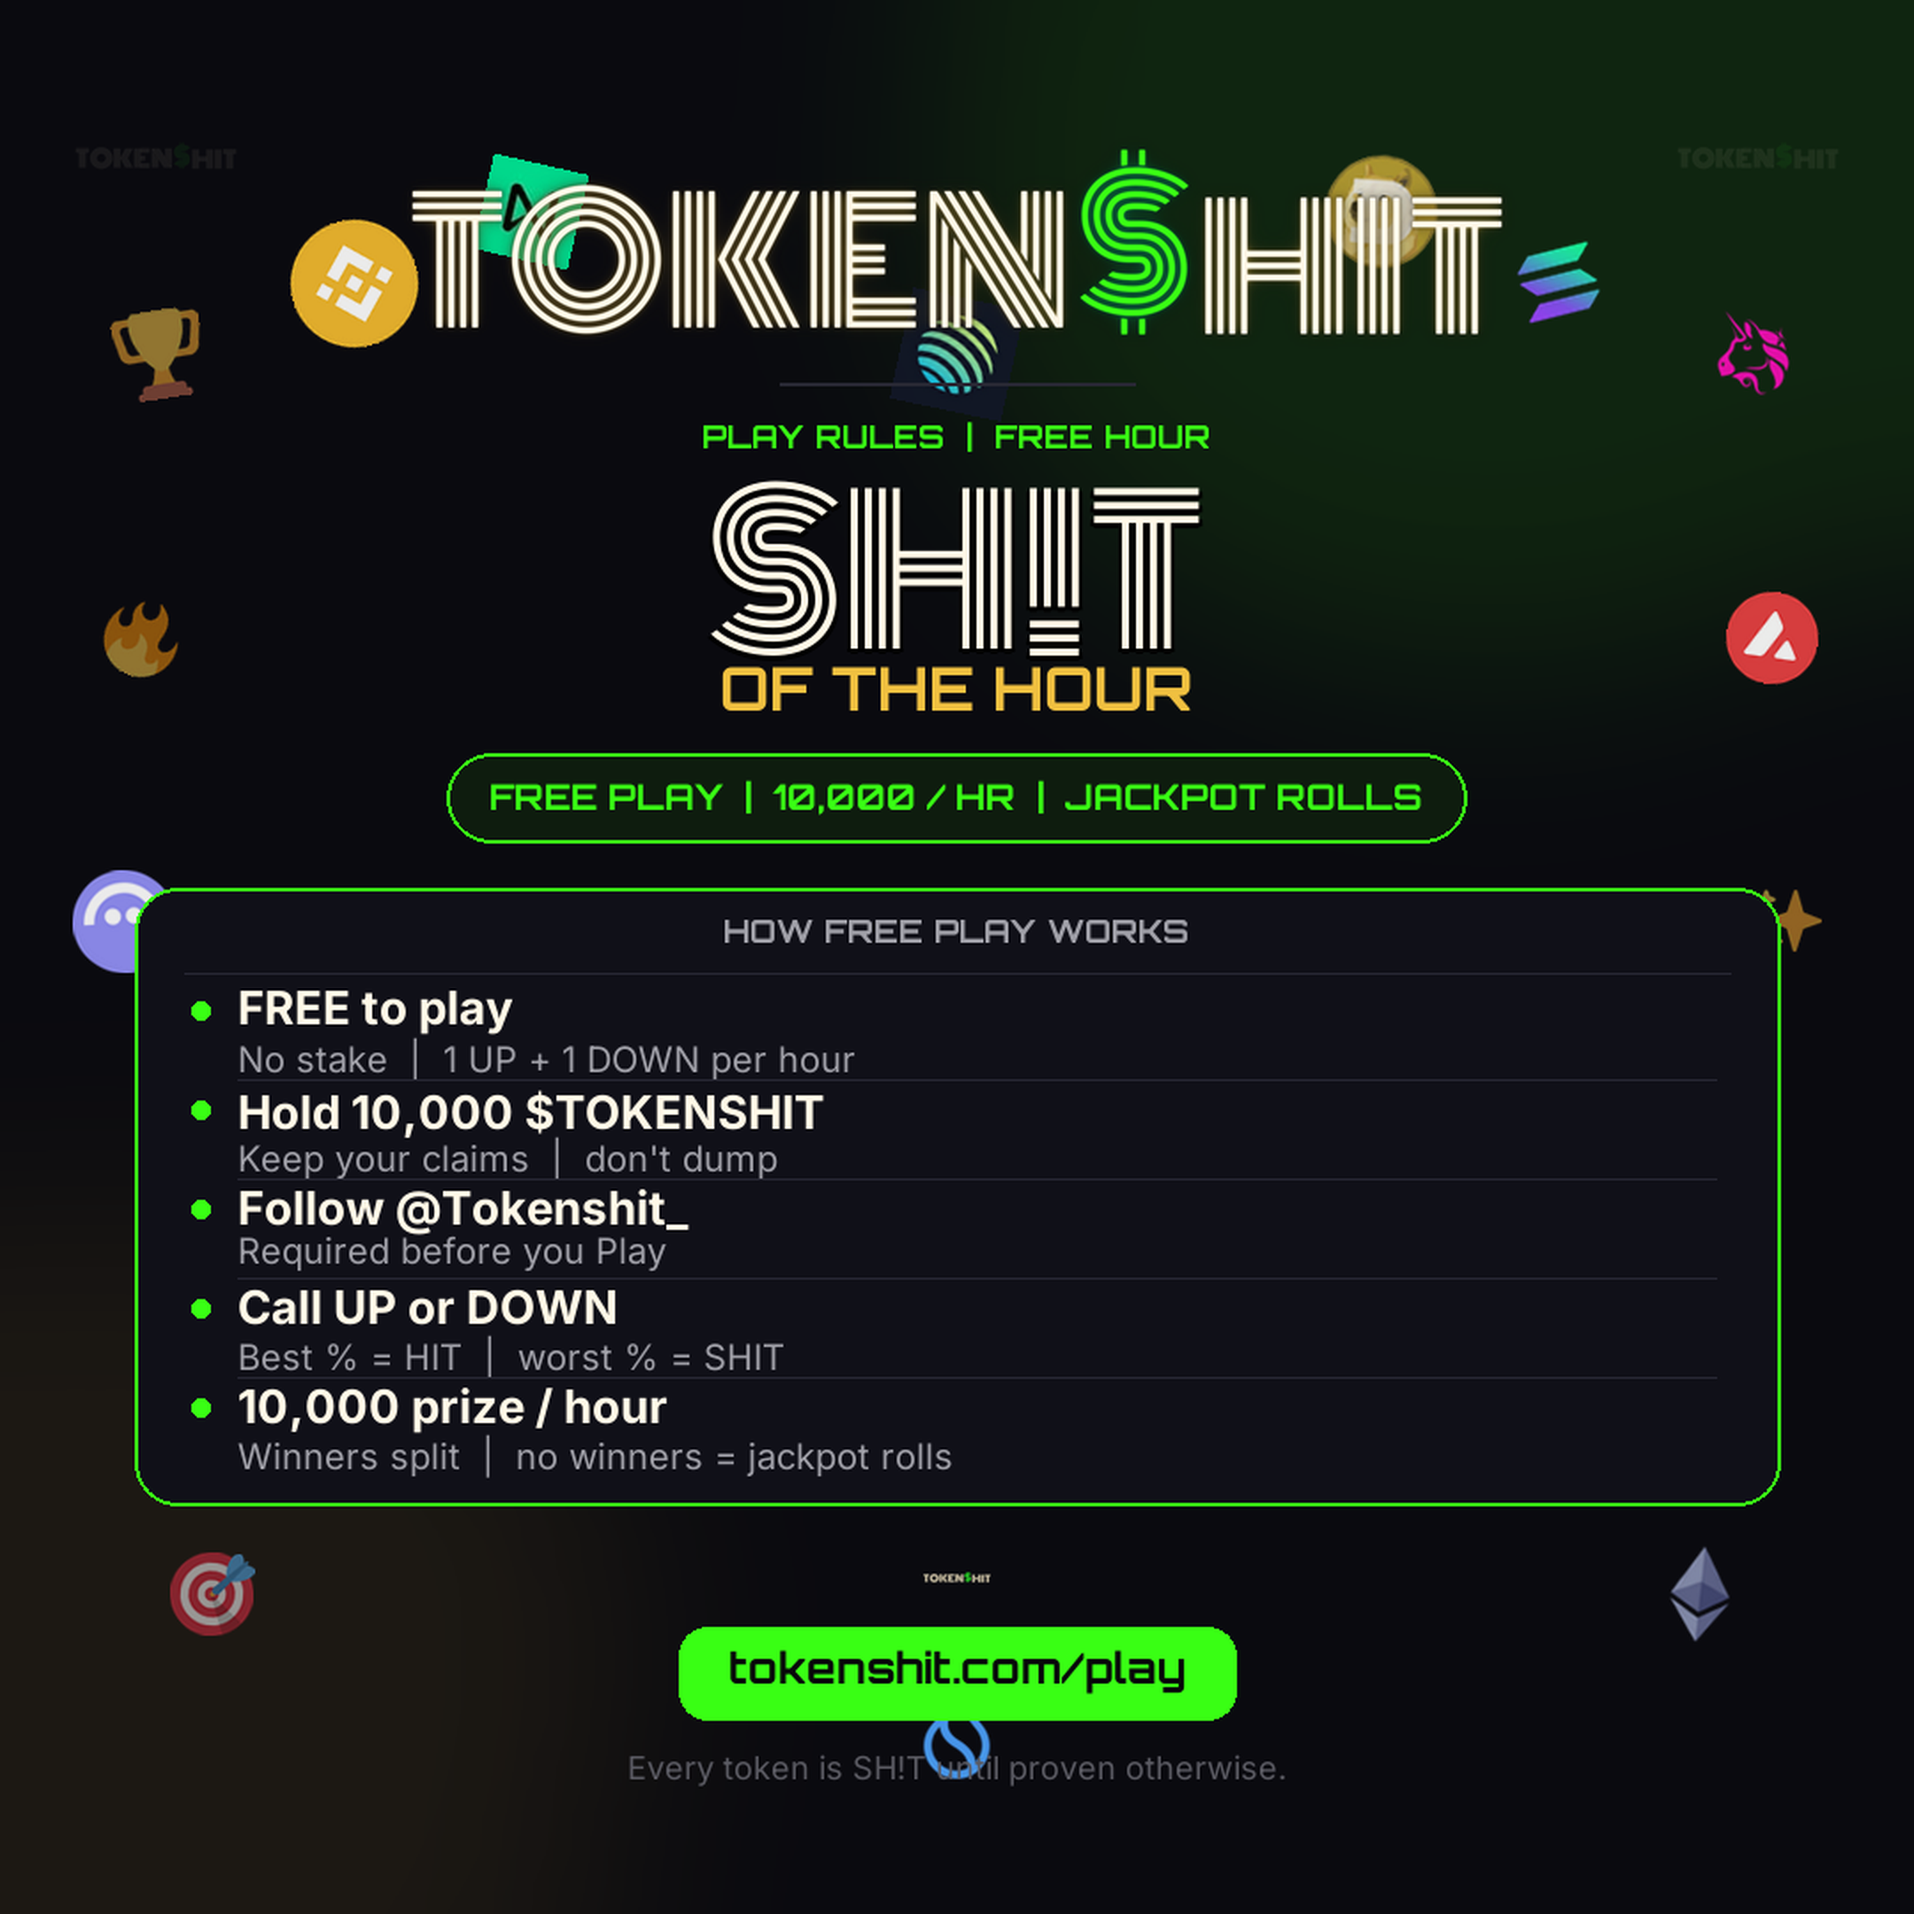
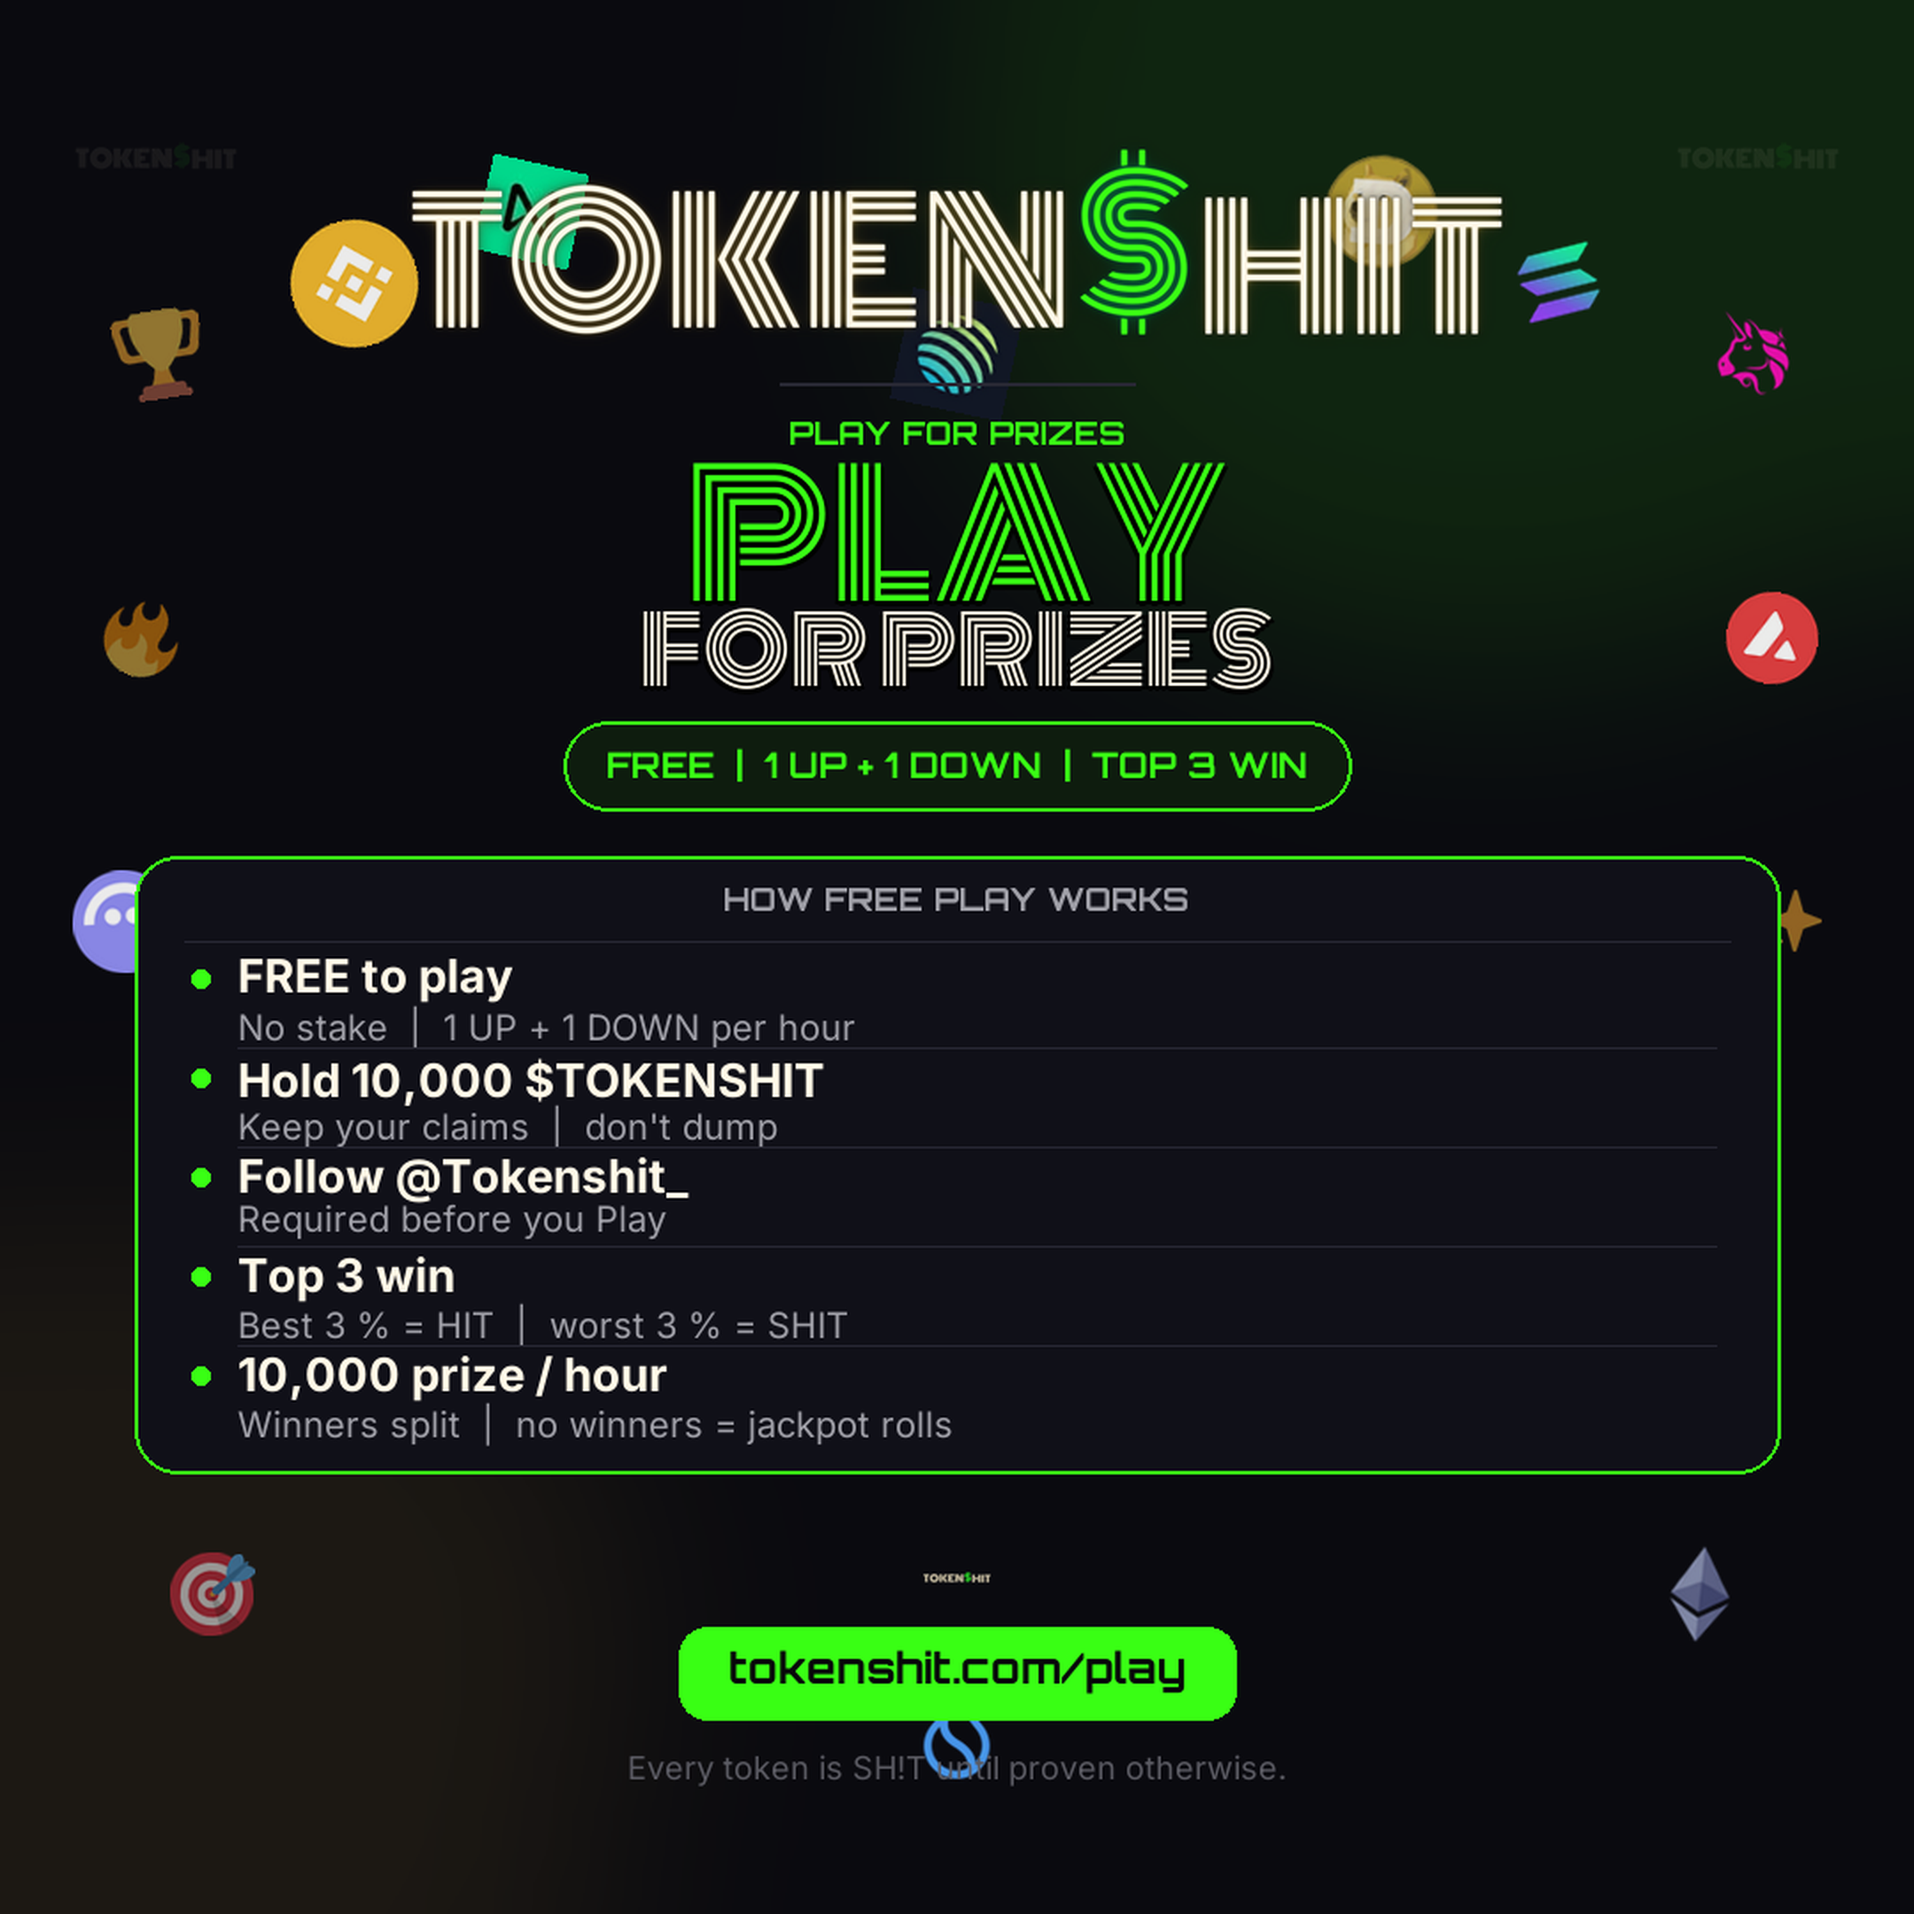
feat: PLAY FOR PRIZES square poster (top 3 win)

diff --git a/src/app/posters/page.tsx b/src/app/posters/page.tsx
@@ -21,7 +21,7 @@ type Poster = {
 const POSTERS: Poster[] = [
   {
     title: "Free Play",
-    blurb: "10k/hr · 1 UP + 1 DOWN · hold 10k · follow",
+    blurb: "FREE · 1 UP + 1 DOWN · top 3 win · 10k/hr",
     href: "/play",
     src: "/brand/play-poster.png",
     src2x: "/brand/play-poster@2x.png",

diff --git a/scripts/generate-play-poster.py b/scripts/generate-play-poster.py
@@ -282,8 +282,8 @@ def build() -> Image.Image:
     d = ImageDraw.Draw(img)
 
     f_eye = fnt("Orbitron-Bold.ttf", 18)
-    f_hero = fnt("Monoton-Regular.ttf", 112)
-    f_sub = fnt("Orbitron-Bold.ttf", 34)
+    f_hero = fnt("Monoton-Regular.ttf", 96)
+    f_sub = fnt("Monoton-Regular.ttf", 52)
     f_pill = fnt("Orbitron-Bold.ttf", 20)
     f_card_h = fnt("Orbitron-Bold.ttf", 18)
     f_rule = fnt("Inter-Bold.ttf", 26)
@@ -303,22 +303,23 @@ def build() -> Image.Image:
     d.line([(mid - 100, y), (mid + 100, y)], fill=LINE, width=2)
     y += 22
 
-    y = draw_centered(d, y, "PLAY RULES  |  FREE HOUR", f_eye, NEON) + 16
+    y = draw_centered(d, y, "PLAY FOR PRIZES", f_eye, NEON) + 10
 
-    # product line
-    hero = "SH!T"
-    hb = f_hero.getbbox(hero)
-    hx = center_x(f_hero, hero) - hb[0]
-    hy = y - hb[1]
-    for dx, dy in ((-2, 2), (2, 2), (0, 3)):
-        d.text((hx + dx, hy + dy), hero, font=f_hero, fill=(0, 0, 0, 130))
-    d.text((hx, hy), hero, font=f_hero, fill=CREAM)
-    y += (hb[3] - hb[1]) + 6
-
-    y = draw_centered(d, y, "OF THE HOUR", f_sub, GOLD) + 24
+    # stacked product
+    for line, font, fill in (
+        ("PLAY", f_hero, NEON),
+        ("FOR PRIZES", f_sub, CREAM),
+    ):
+        hb = font.getbbox(line)
+        hx = center_x(font, line) - hb[0]
+        hy = y - hb[1]
+        for dx, dy in ((-2, 2), (2, 2), (0, 3)):
+            d.text((hx + dx, hy + dy), line, font=font, fill=(0, 0, 0, 130))
+        d.text((hx, hy), line, font=font, fill=fill)
+        y += (hb[3] - hb[1]) + (4 if line == "PLAY" else 18)
 
     # prize pill
-    pill = "FREE PLAY  |  10,000 / HR  |  JACKPOT ROLLS"
+    pill = "FREE  |  1 UP + 1 DOWN  |  TOP 3 WIN"
     pw = tw(f_pill, pill) + 48
     ph = 50
     px = (S - pw) // 2
@@ -341,7 +342,7 @@ def build() -> Image.Image:
         ("FREE to play", "No stake  |  1 UP + 1 DOWN per hour"),
         ("Hold 10,000 $TOKENSHIT", "Keep your claims  |  don't dump"),
         ("Follow @Tokenshit_", "Required before you Play"),
-        ("Call UP or DOWN", "Best % = HIT  |  worst % = SHIT"),
+        ("Top 3 win", "Best 3 % = HIT  |  worst 3 % = SHIT"),
         ("10,000 prize / hour", "Winners split  |  no winners = jackpot rolls"),
     ]
 
